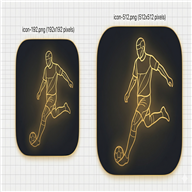
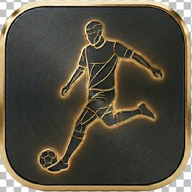
Improve PWA manifest for Android compatibility
Add modern manifest properties: id, display_override, handle_links,
launch_handler. Add explicit 'any' purpose to icons. Update app icons.

diff --git a/ffl-frontend/vite.config.ts b/ffl-frontend/vite.config.ts
@@ -23,26 +23,34 @@ export default defineConfig({
         enabled: true
       },
       manifest: {
+        id: 'de.ffl.app',
         name: 'FFL - Fantasy Football League',
         short_name: 'FFL',
         description: 'Fantasy Football League Dashboard',
         start_url: '/',
         scope: '/',
         display: 'standalone',
+        display_override: ['window-controls-overlay', 'standalone'],
         orientation: 'portrait',
         background_color: '#0f1419',
         theme_color: '#c9a66b',
-        prefer_related_applications: false,
+        handle_links: 'preferred',
+        launch_handler: {
+          client_mode: 'navigate-existing'
+        },
+        related_applications: [],
         icons: [
           {
             src: '/icon-192.png',
             sizes: '192x192',
-            type: 'image/png'
+            type: 'image/png',
+            purpose: 'any'
           },
           {
             src: '/icon-512.png',
             sizes: '512x512',
-            type: 'image/png'
+            type: 'image/png',
+            purpose: 'any'
           },
           {
             src: '/icon-192.png',